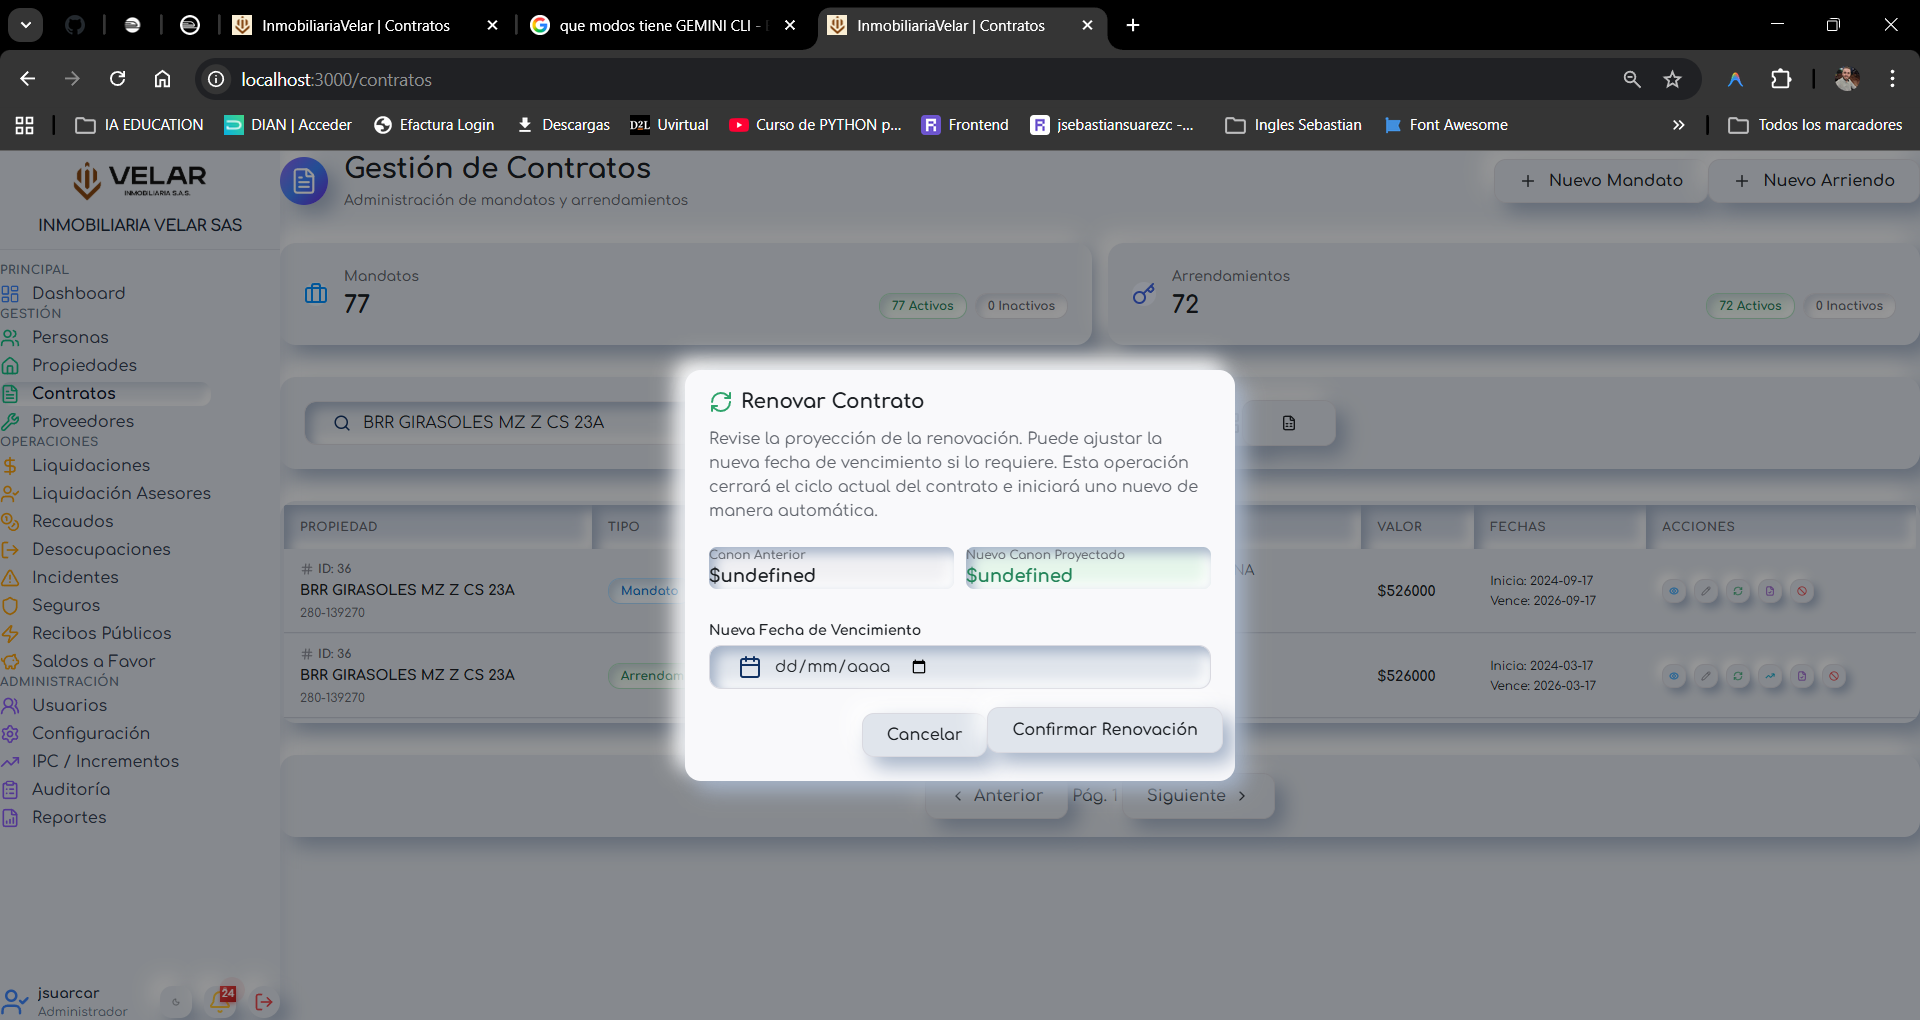
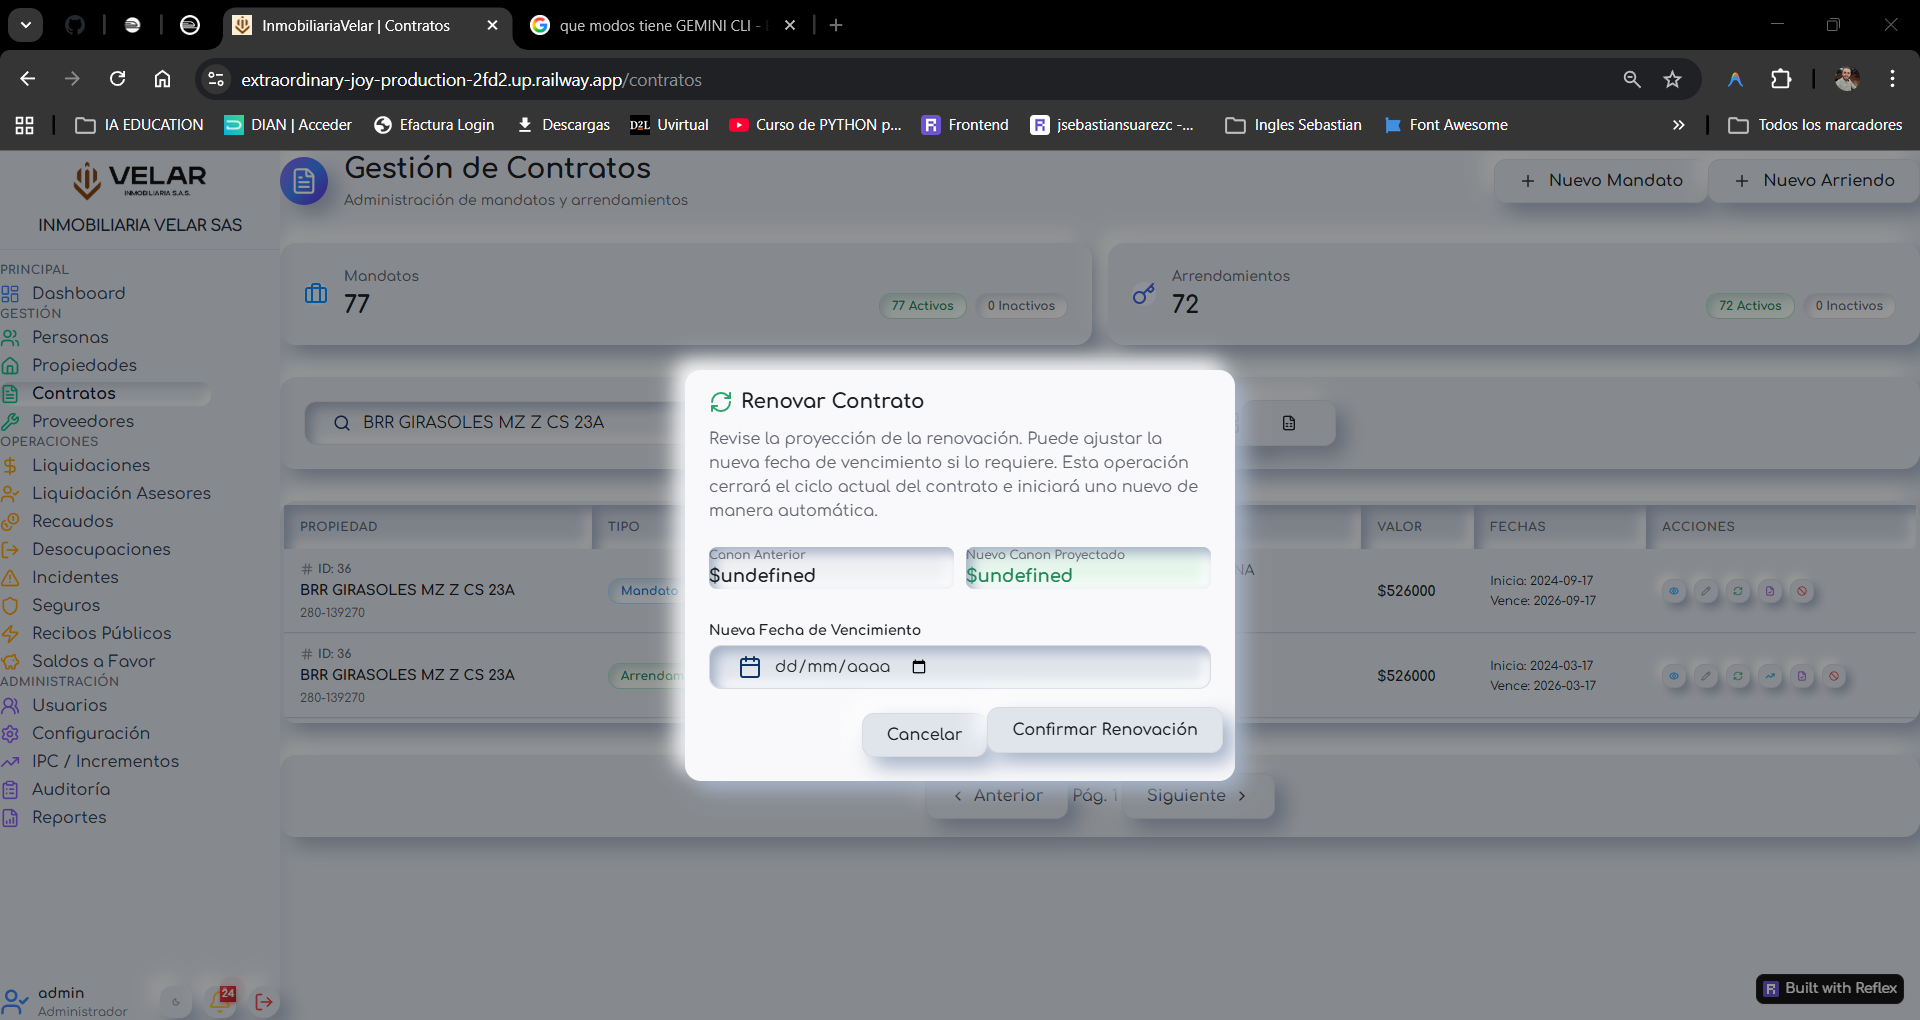
fix(contratos): casting to str en modal de renovacion para prevenir react undefined errors

diff --git a/src/presentacion_reflex/components/contratos/contrato_renewal_modal.py b/src/presentacion_reflex/components/contratos/contrato_renewal_modal.py
@@ -47,7 +47,7 @@ def contrato_renewal_modal() -> rx.Component:
                         rx.box(
                             rx.text("Canon Anterior", size="1", color="var(--gray-11)", weight="medium"),
                             rx.text(
-                                f"${ContratosState.renewal_proyeccion['canon_actual']}",
+                                f"${ContratosState.renewal_proyeccion['canon_actual'].to(str)}",
                                 weight="bold",
                                 size="4",
                             ),
@@ -61,14 +61,14 @@ def contrato_renewal_modal() -> rx.Component:
                             rx.text("Nuevo Canon Proyectado", size="1", color="var(--gray-11)", weight="medium"),
                             rx.hstack(
                                 rx.text(
-                                    f"${ContratosState.renewal_proyeccion['canon_nuevo']}",
+                                    f"${ContratosState.renewal_proyeccion['canon_nuevo'].to(str)}",
                                     weight="bold",
                                     size="4",
                                     color="var(--green-11)",
                                 ),
                                 rx.cond(
                                     ContratosState.renewal_proyeccion.contains("porcentaje_ipc"),
-                                    neuro_badge(f"{ContratosState.renewal_proyeccion['porcentaje_ipc']}% IPC", color_scheme="cyan", size="1"),
+                                    neuro_badge(f"{ContratosState.renewal_proyeccion['porcentaje_ipc'].to(str)}% IPC", color_scheme="cyan", size="1"),
                                 ),
                             ),
                             padding="3",
